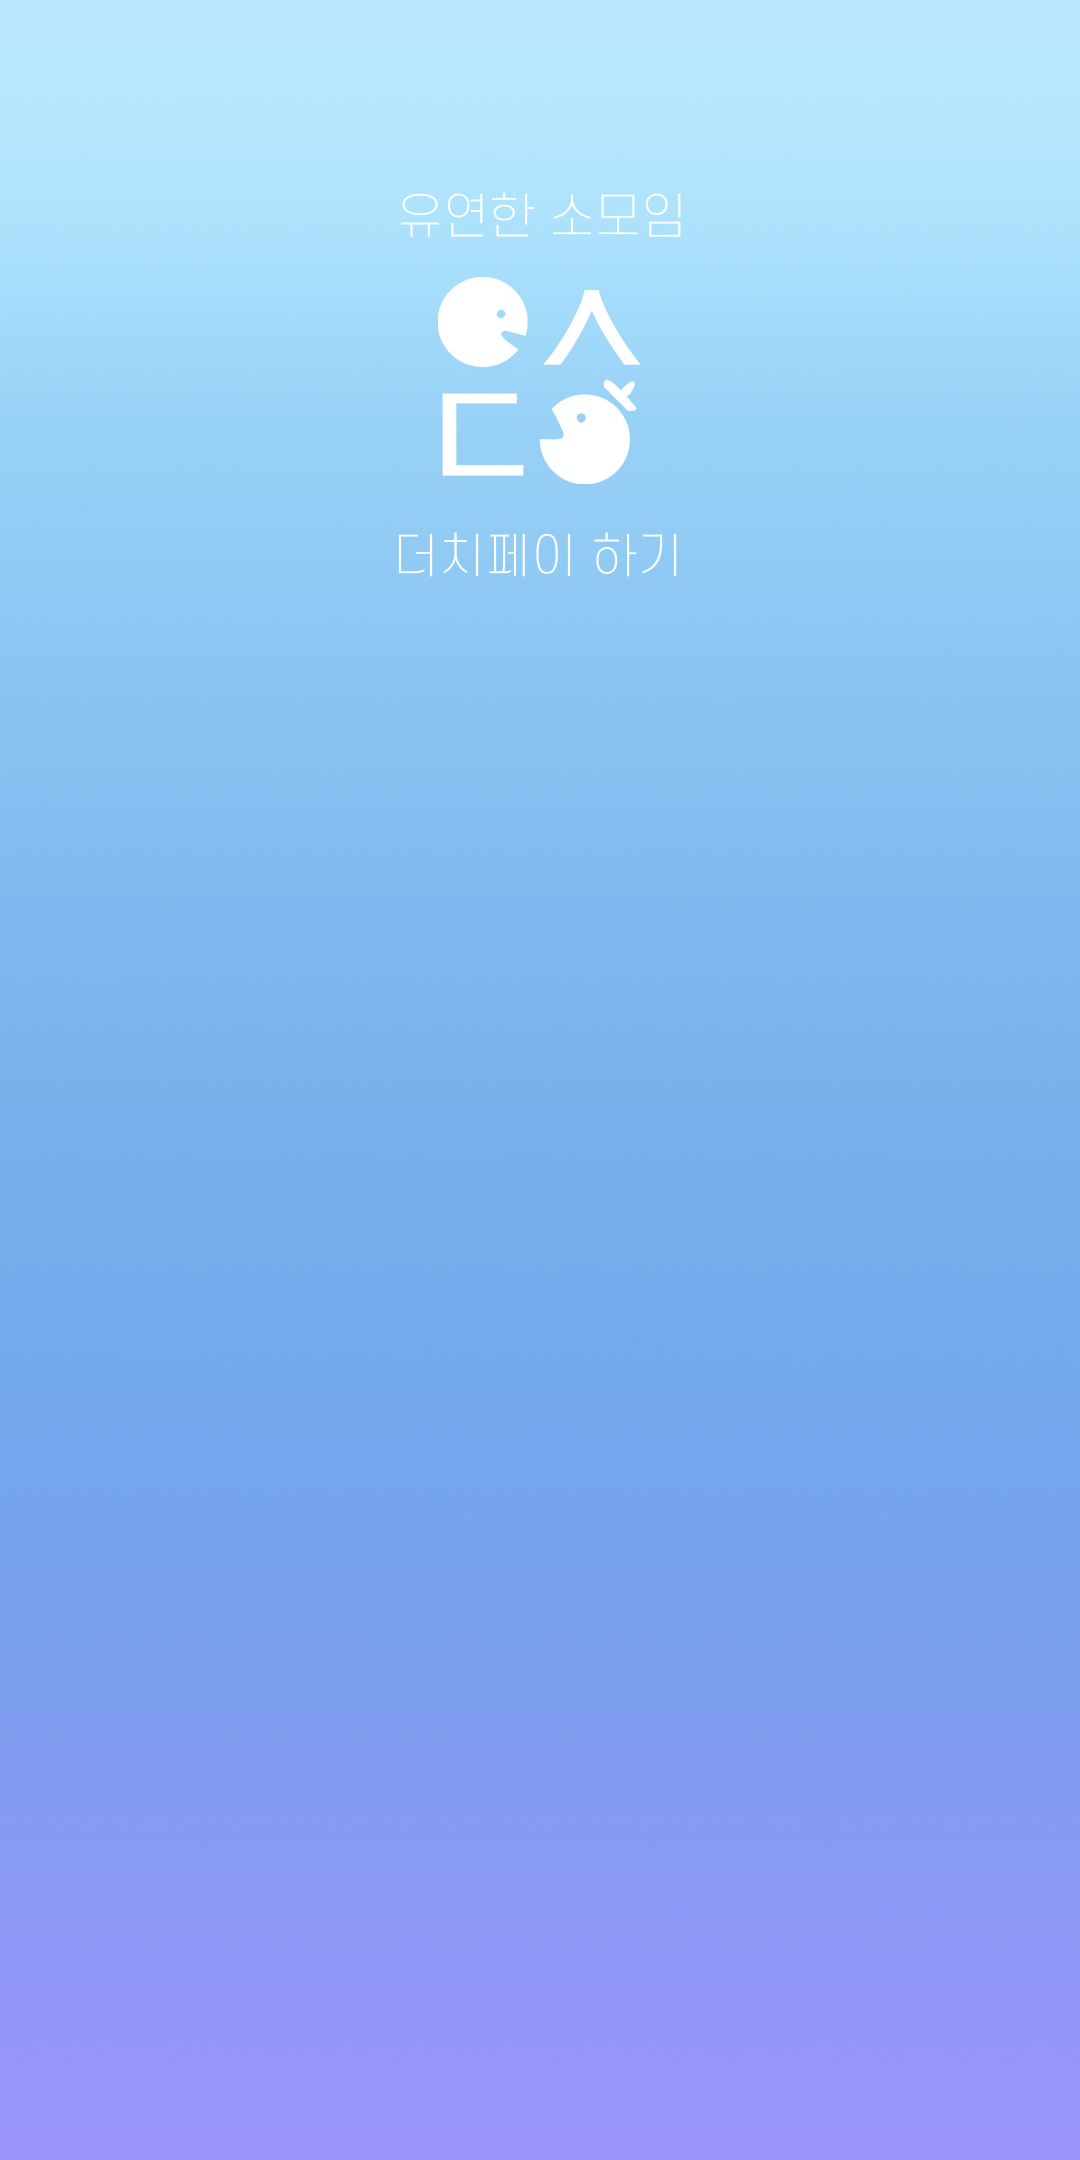
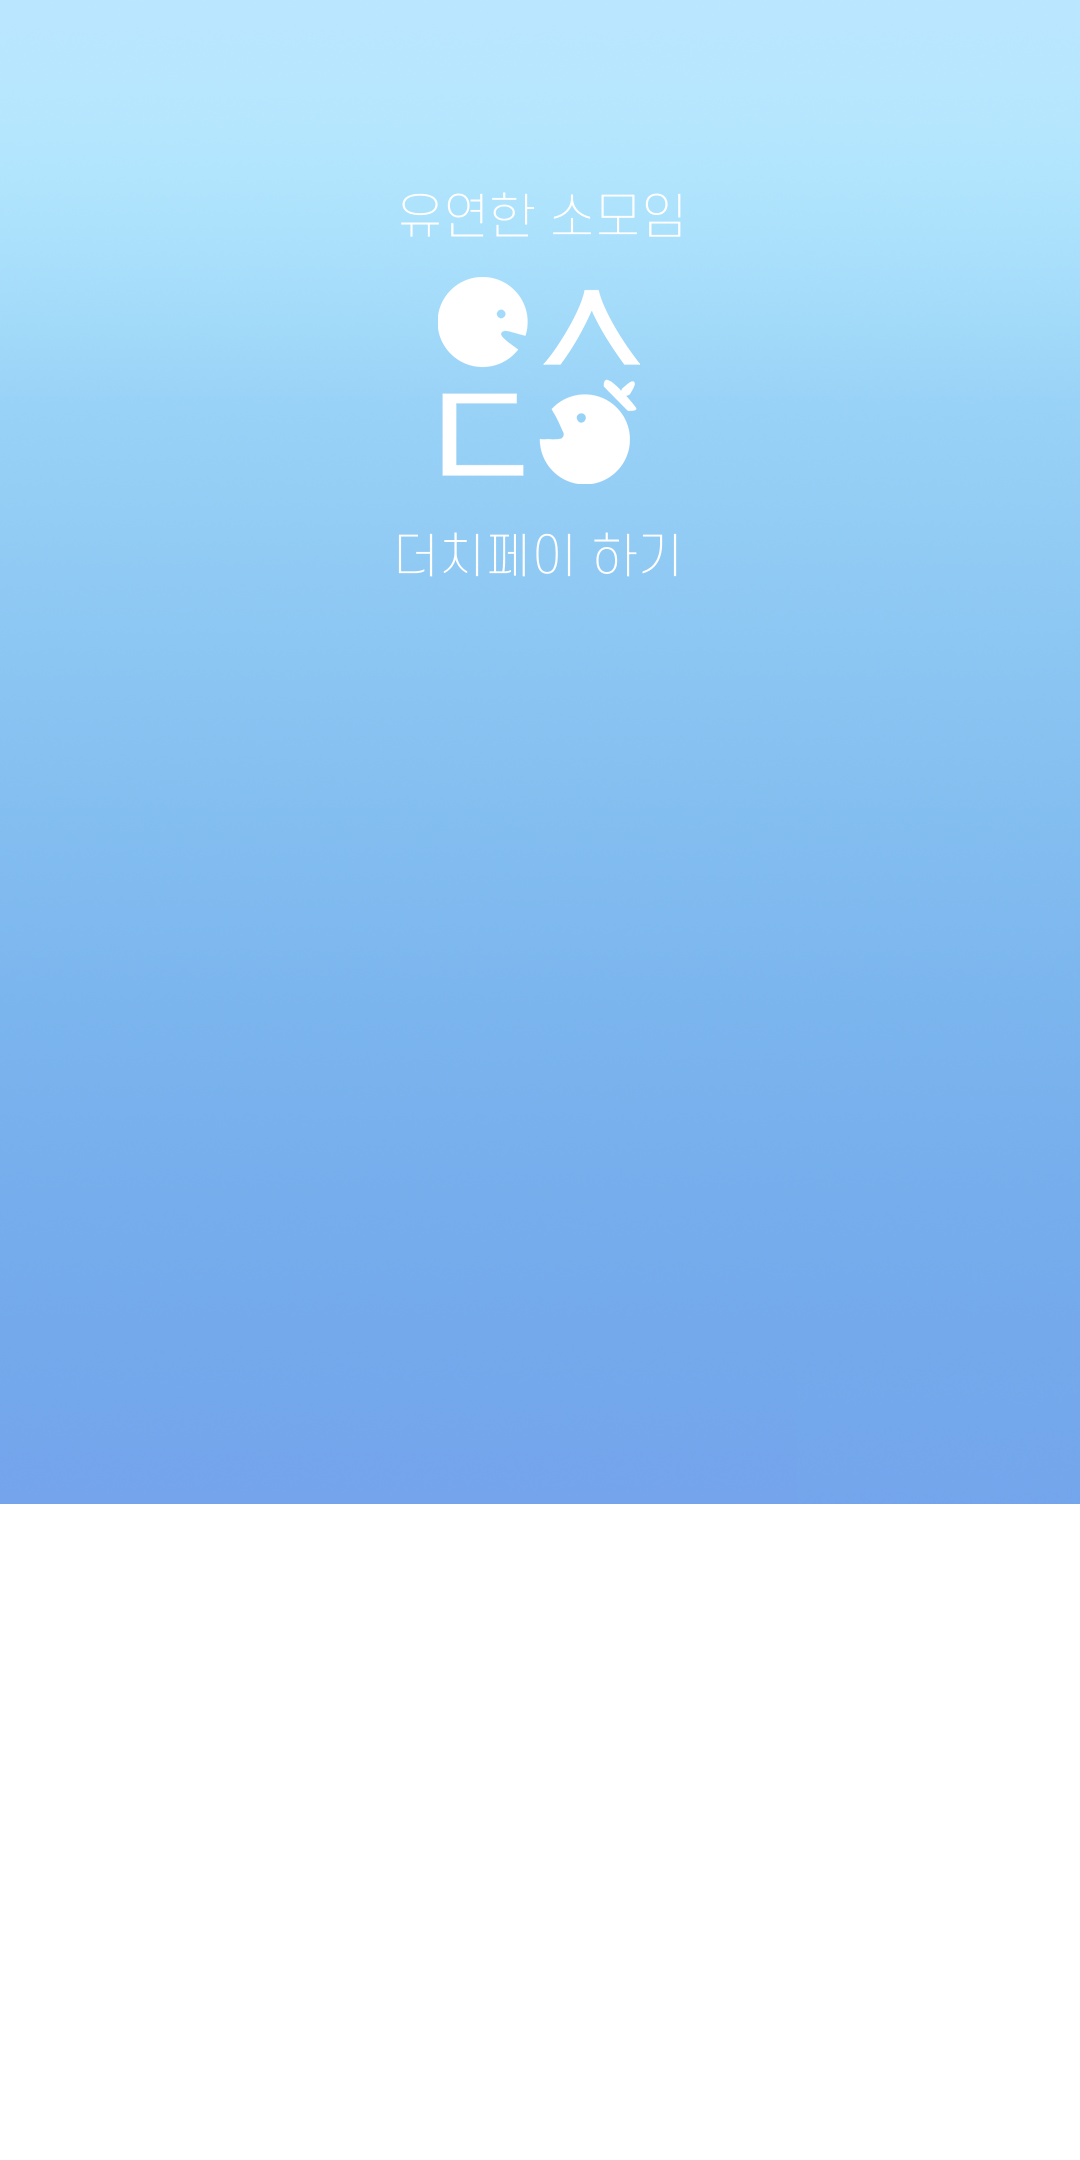
08-17 signin page 수정

diff --git a/flutter/lib/login/signin_page.dart b/flutter/lib/login/signin_page.dart
@@ -65,7 +65,6 @@ class SignInPageState extends State<SignInPage> {
               // white container
               Container(
                 width: double.infinity,
-                height: 487,
                 margin: const EdgeInsets.only(top: 250),
                 decoration: BoxDecoration(
                   color: Colors.white,
